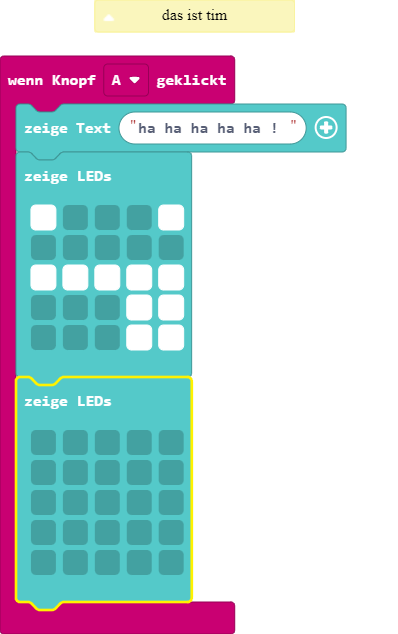
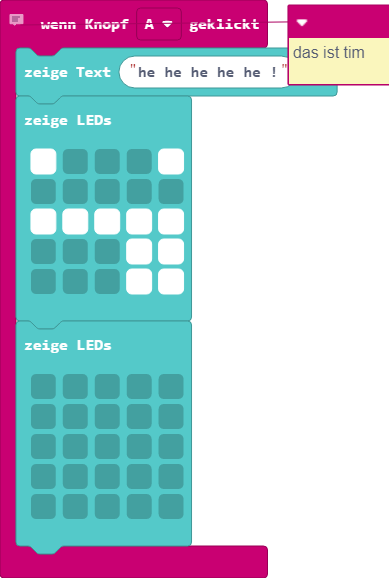
Aktualisiere pxt.json, main.blocks, main.ts

diff --git a/main.ts b/main.ts
@@ -1,8 +1,6 @@
-/**
- * das ist tim
- */
+// das ist tim
 input.onButtonPressed(Button.A, function () {
-    basic.showString("ha ha ha ha ha ! ")
+    basic.showString("he he he he he !")
     basic.showLeds(`
         # . . . #
         . . . . .
